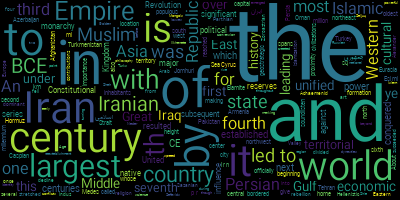
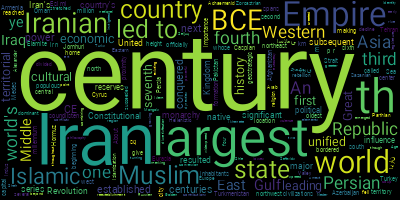
Fix reverse letters in Windows and Ubuntu
- Adding symbols to the stopwords file.
- Adding `no_reshape` parameter for disabling reshaping words.
- Updating examples
- Fix problem of invalid frequency calculation when using stopwords.

diff --git a/wordcloud_fa/WordCloudFa.py b/wordcloud_fa/WordCloudFa.py
@@ -4,7 +4,7 @@ from bidi.algorithm import get_display
 from wordcloud import WordCloud, STOPWORDS
 from os.path import dirname, join
 from os import environ
-from hazm import Normalizer
+from hazm import Normalizer, word_tokenize
 import re
 from sys import version
 
@@ -33,7 +33,8 @@ class WordCloudFa(WordCloud):
                  max_font_size=None, font_step=1, mode="RGB",
                  relative_scaling='auto', regexp=None, collocations=True,
                  colormap=None, normalize_plurals=True, contour_width=0,
-                 contour_color='black', repeat=False, include_numbers=True, persian_normalize: bool = False):
+                 contour_color='black', repeat=False, include_numbers=True, persian_normalize: bool = False,
+                 no_reshape: bool = False):
         """
 
         :param font_path: Default value is the font file in the `Fonts` directory
@@ -43,6 +44,7 @@ class WordCloudFa(WordCloud):
         :param stopwords: An Iterable contains words you don't want to consider. If be None, default stopwords will
                           consider. You should add values to default words using `add_stop_words` method.
         :param include_numbers: if be True, all English, Persian and Arabic numbers will exclude from conting and showing
+        :param no_reshape: if be True, reversing Persian/Arabic words will disable.
         """
         super().__init__(font_path, width, height, margin,
                          ranks_only, prefer_horizontal, mask, scale,
@@ -56,6 +58,7 @@ class WordCloudFa(WordCloud):
         self.stopwords: set = set(stopwords) if stopwords is not None else STOPWORDS
         self.persian_normalize: bool = persian_normalize
         self.include_numbers = include_numbers
+        self.no_reshape: bool = no_reshape
 
     @staticmethod
     def reshape_words(words: Iterable) -> List[str]:
@@ -68,8 +71,21 @@ class WordCloudFa(WordCloud):
         :param words: an iterable including words
         :return: a ist of proper words for showing in the WordCloud
         """
-        combined_words = "".join(x + "\n" for x in words)
+        combined_words: str = "".join(x + "\n" for x in words)
         return get_display(arabic_reshaper.reshape(combined_words)).split("\n")
+
+    @staticmethod
+    def normalize_words(words: Iterable) -> List[str]:
+        """
+        This method gets an Iterable containing some Farsi words as elements, normalizes them using Hazm and then
+        returns a list of normalized words.
+        :param words: an iterable including words
+        :return: A list of normalized elements of the `words` iterable.
+        """
+        combined_words: str = "".join(x + "\n" for x in words)
+        normalizer: Normalizer = Normalizer()
+        normalized_combined_words: str = normalizer.normalize(combined_words)
+        return normalized_combined_words.split("\n")
 
     def add_stop_words(self, stop_words: Iterable) -> None:
         """
@@ -102,7 +118,6 @@ class WordCloudFa(WordCloud):
         """
         flags = (re.UNICODE if version < '3' and type(text) is unicode  # noqa: F821
                  else 0)
-        regexp = self.regexp if self.regexp is not None else r"\w[\w']+"
 
         if self.persian_normalize:
             normalizer = Normalizer()
@@ -110,7 +125,10 @@ class WordCloudFa(WordCloud):
         if not self.include_numbers:
             text = re.sub(r"[0-9\u06F0-\u06F9\u0660-\u0669]", "", text)
 
-        words = re.findall(regexp, text, flags)
+        if self.regexp:
+            words = re.findall(self.regexp, text, flags)
+        else:
+            words = word_tokenize(text)
 
         if self.collocations:
             word_counts = unigrams_and_bigrams(words, self.normalize_plurals)
@@ -139,6 +157,12 @@ class WordCloudFa(WordCloud):
                 words.append(word)
                 values.append(frequencies.get(word))
 
+        if not self.no_reshape:
+            words = WordCloudFa.reshape_words(words)
+
+        if self.persian_normalize:
+            words = WordCloudFa.normalize_words(words)
+
         new_frequencies = dict(zip(words, values))
         return super().generate_from_frequencies(new_frequencies, max_font_size)
 
@@ -148,9 +172,6 @@ class WordCloudFa(WordCloud):
         :param text:
         :return:
         """
-        if self.persian_normalize:
-            normalizer = Normalizer()
-            text = normalizer.normalize(text)
         return self.generate_from_text(text)
 
     def to_html(self):

diff --git a/setup.py b/setup.py
@@ -8,7 +8,7 @@ with open(path.join(this_directory, 'README.md'), encoding='utf-8') as f:
 setup(
     name='wordcloud_fa',
     packages=['wordcloud_fa'],
-    version='0.1.4',
+    version='0.1.6',
     license='MIT',
     description='A wrapper for wordcloud module for creating persian (and other rtl languages) word cloud.',
     long_description=long_description,
@@ -16,16 +16,16 @@ setup(
     author='Mohammadreza Alihoseiny',
     author_email='salam@alihoseiny.ir',
     url='https://github.com/alihoseiny/word_cloud_fa',
-    download_url='https://github.com/alihoseiny/word_cloud_fa/archive/0.1.3.tar.gz',
+    download_url='https://github.com/alihoseiny/word_cloud_fa/archive/0.1.6.tar.gz',
     keywords=['wordcloud', 'word cloud', 'Farsi', 'persian', 'Iran', 'nlp', 'National Language Processing',
               'text processing', 'data visualization'],
     install_requires=[
-        'numpy>=1.6.1',
-        'pillow',
-        'matplotlib',
+        'numpy>=1.18.1',
+        'pillow>=7.0.0',
+        'matplotlib>=3.1.2',
         'arabic_reshaper',
         'python-bidi',
-        'wordcloud',
+        'wordcloud>=1.6.0',
         'hazm'
     ],
     package_data={'wordcloud_fa': ['stopwords', 'Fonts/font.ttf']},

diff --git a/Examples/masked-example.py b/Examples/masked-example.py
@@ -3,8 +3,14 @@ import numpy as np
 from PIL import Image
 
 mask = np.array(Image.open("mask.png"))
-wodcloud = WordCloudFa(persian_normalize=True, include_numbers=False, background_color="white", mask=mask)
-wodcloud.add_stop_words(['the', 'and', 'with', 'by', 'in', 'to', 'to the', 'of', 'it', 'is', 'th', 'its', 'for'])
+
+# Passing `no_reshape` parameter for you may cause problem in showing Farsi texts. If your output from the example
+# is not true, you can remove that parameter
+wodcloud = WordCloudFa(persian_normalize=True, include_numbers=False, background_color="white", mask=mask, no_reshape=True)
+
+# Adding extra stop words:
+wodcloud.add_stop_words(['the', 'and', 'with', 'by', 'in', 'to', 'to the', 'of', 'it', 'is', 'th', 'its', 'for', '[ ]', '. [', '] ['])
+
 text = ""
 with open('mixed-example.txt', 'r') as file:
     text = file.read()

diff --git a/Examples/persian-example.py b/Examples/persian-example.py
@@ -1,6 +1,6 @@
 from wordcloud_fa import WordCloudFa
 
-wodcloud = WordCloudFa(persian_normalize=True)
+wodcloud = WordCloudFa(no_reshape=True, persian_normalize=True, include_numbers=False, collocations=False, width=800, height=400)
 text = ""
 with open('persian-example.txt', 'r') as file:
     text = file.read()

diff --git a/Examples/english-example.py b/Examples/english-example.py
@@ -1,6 +1,6 @@
 from wordcloud_fa import WordCloudFa
 
-wodcloud = WordCloudFa(persian_normalize=True, include_numbers=False)
+wodcloud = WordCloudFa(include_numbers=False, regexp=r"\w[\w']+")
 text = ""
 with open('english-example.txt', 'r') as file:
     text = file.read()

diff --git a/README.md b/README.md
@@ -8,10 +8,6 @@
 
 This module is an easy-to-use wrapper for [word_cloud module](https://github.com/amueller/word_cloud).
 
-**Attention: It seems that you can use the original module now for creating wordclouds for Farsi with proper fonts.
- So you can use that module instead this one. But this module is steal useful if you are interested in its other features.
- If you found problems in original module for creating Farsi modules, please notify me at the issues page for removing this warning.**
-
 The original module doesn't support Farsi Texts. But by using **WordCloudFa** you can generate word clouds from 
 texts those are including Persian and English words.
 
@@ -30,6 +26,10 @@ This module is not only a wrapper, but it adds some features to the original mod
 - [Font](#font)
 - [Persian Tutorial](#persian-tutorial)
 - [Contribution](#contribution)
+- [Common Problems](#Common-Problems)
+  * [Farsi Letters are separated](#Farsi-Letters-are-separated)
+  * [I See Repeated Farsi Words](#I-See-Repeated-Farsi-Words)
+  * [I Have Problem in Running Example Scripts](#I-Have-Problem-in-Running-Example-Scripts)
 - [There is any problem?](#there-is-any-problem)
 - [Citations](#citations)
 
@@ -73,7 +73,7 @@ you can create an instance of this class like:
 You can pass different parameters to the constructor. For see full documents of them, you can see 
 [WordCloud Documentations](https://amueller.github.io/word_cloud/) 
 
-There are two parameters that are not in the original class.
+There are three parameters that are not in the original class.
 
 First one is `persian_normalize`. If you pass this parameter with `True` value, your data will normalize by using 
 [Hazm normalizer](https://github.com/sobhe/hazm). It's recommended to always pass this parameter. That will replace 
@@ -84,14 +84,21 @@ The default value of this parameter is `False`.
 
 the second parameter is `include_numbers` that is not in the published original module. If you set this parameter to `False`,
  all Persian, Arabic and English numbers will remove from your data.
- 
+
  The default value of this parameter is `True`
- 
+
  `wodcloud = WordCloudFa(include_numbers=False)`
- 
+
+ **Common problem Hint:**
+
+ The last and very important parameter is: `no_reshape`. The default value of the parameter is `False`. But if you see 
+ that the letters of the words in Farsi texts are separated in your local system, you should pass `True` value to this parameter.
+ ```python
+wordcloud = WordCloudFa(no_reshape=True)
+ ```
  ## Generating Word Cloud from Text
  for generating word cloud from a string, you can simply call `generate` method of you instance:
- 
+
  ```python
 wodcloud = WordCloudFa(persian_normalize=True)
 wc = wodcloud.generate(text)
@@ -99,18 +106,18 @@ image = wc.to_image()
 image.show()
 image.save('wordcloud.png')
 
-``` 
+ ```
 
 ## Generating Word Cloud from Frequencies
 
 You can generate a word cloud from frequencies. You can use the output of `process_text` method as frequencies.
  Also you can use any dictionary like this.
- 
+
  ```python
 wodcloud = WordCloudFa()
 frequencies = wodcloud.process_text(text)
 wc = wodcloud.generate_from_frequencies(frequencies)
-``` 
+ ```
 
 `generate_from_frequencies` method in this module will exclude stopwords. But the original module will not exclude them 
 when you are using this method. Also you can use Persian words as keys in frequencies dict without any problem.
@@ -127,7 +134,7 @@ you are creating an instance from `WordCloudFa` and pass a `set` of words into i
 ```python
 stop_words = set(['کلمهی اول', 'کلمهی دوم'])
 wc = WordCloudFa(stopwords=stop_words)
-``` 
+```
 
 If you want to add additional words to the default stopwords, you can simply call `add_stop_words` method on your 
 instance of `WordCloudFa` and pass an iterable type (`list`, `set`, ...) into it.
@@ -135,7 +142,7 @@ instance of `WordCloudFa` and pass an iterable type (`list`, `set`, ...) into it
 ```python
 wc = WordCloudFa()
 wc.add_stop_words(['کلمهی اول', 'کلمهی دوم'])
-``` 
+```
 
 Also you can add stopwords from a file. That file should include stopwords and each word should be in a separate line.
 
@@ -216,10 +223,39 @@ You are wondering how you can contribute to this project? Here is a list of what
 3. Do you think one useful feature missed? You can open an issue and tell us about it.
 4. Did you find a good open and free font that supports Farsi and English? You can notify us by a pull request or if opening an issue
 
+# Common Problems
+
+## Farsi Letters are separated
+
+If you see separated Farsi letters in your output, you should pass `no_reshape=True` parameter to your `WordCoudFa` constructor:
+
+```python
+wodcloud = WordCloudFa(no_reshape=True)
+```
+
+
+
+## I See Repeated Farsi Words
+
+In some cases you may see repeated Farsi words in the output. For solving that problem, you should pass `collocations=False` Parameter to your `WordCloudFa` constructor:
+
+```python
+wodcloud = WordCloudFa(collocations=False)
+```
+
+## I Have Problem in Running Example Scripts
+
+In some operating systems like Windows, you should specify the encoding of the example text files. If you can not open example files, add `encoding="utf-8"` to your open statements:
+
+```python
+with open('persian-example.txt', 'r', encoding="utf-8") as file:
+```
+
+
+
 # There is any problem?
 If you have questions, find some bugs or need some features, you can open an issue and tell us. For some strange reasons this is not possible? so contact me by this email: `salam@alihoseiny.ir`.
 
 # Citations
-Texts in the `Example` directory are from [this](https://fa.wikipedia.org/wiki/%D8%A7%DB%8C%D8%B1%D8%A7%D9%86) and 
-[this](https://en.wikipedia.org/wiki/Iran) Wikipedia pages.
+Texts in the `Example` directory are from [this](https://fa.wikipedia.org/wiki/%D8%A7%DB%8C%D8%B1%D8%A7%D9%86) and [this](https://en.wikipedia.org/wiki/Iran) Wikipedia pages.
 

diff --git a/CHANGELOG.md b/CHANGELOG.md
@@ -1,3 +1,8 @@
+# 0.1.6
+- Adding symbols to the stopwords file.
+- Adding `no_reshape` parameter for disabling reshaping words.
+- Updating examples
+- Fix problem of invalid frequency calculation when using stopwords.
 # 0.1.4
 - `add_stop_words_from_file` method added to the class for simple adding stopwords from file.
 - Add English stop words of `wordcloud` module to the default stopwords plus persian ones.
